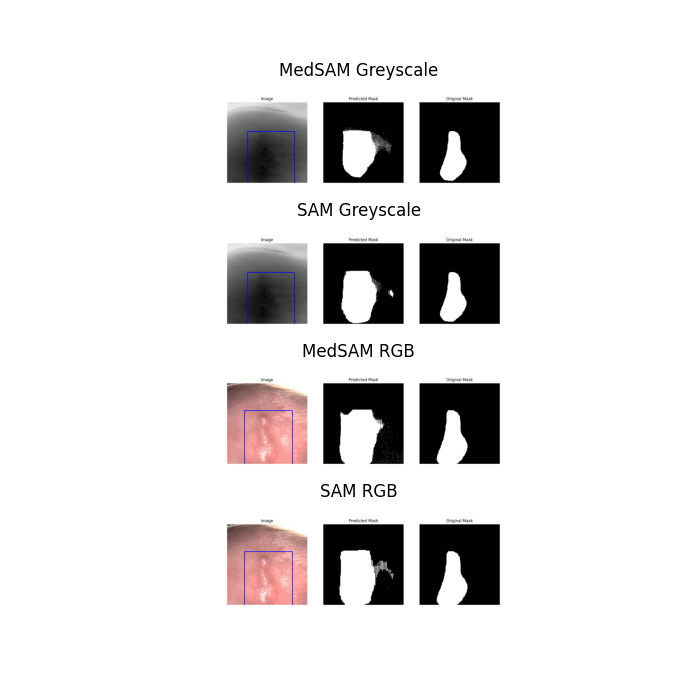
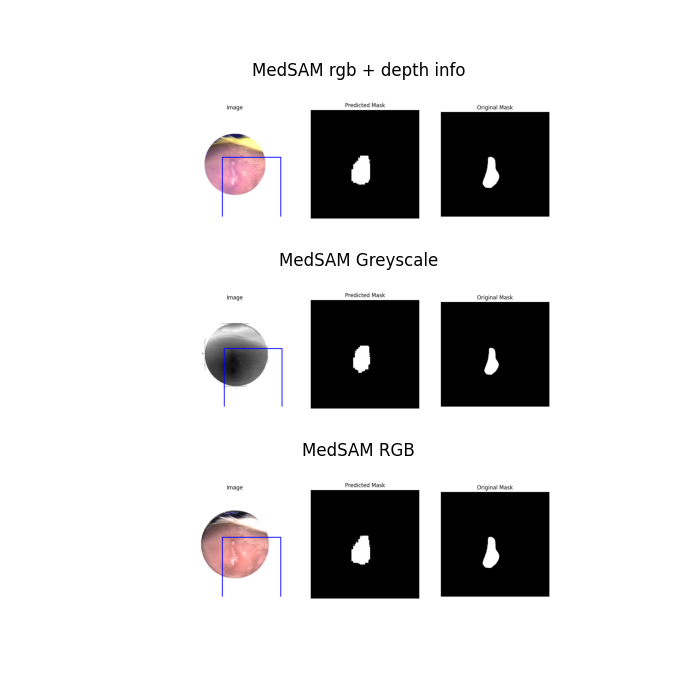
added final images

Changed region(s): [[0.27, 0.09, 0.81, 0.66], [0.27, 0.69, 0.81, 0.87]]

diff --git a/save_images.py b/save_images.py
@@ -1,6 +1,6 @@
 import os, random, cv2
 import matplotlib.pyplot as plt
-import tqdm
+from tqdm import tqdm
 
 def read_images_to_array(folder_path):
 
@@ -17,31 +17,26 @@ def read_images_to_array(folder_path):
 
   return image_array
 
-MedSAM_greyscale = read_images_to_array('./images_MedSAM_greyscale')
-MedSAM_rgb = read_images_to_array('./images_MedSAM_rgb')
-SAM_greyscale = read_images_to_array('./images_SAM_greyscale')
-SAM_rgb = read_images_to_array('./images_SAM_rgb')
+MedSAM_infused = read_images_to_array('./MedSAM_infused')
+MedSAM_rgb = read_images_to_array('./MedSAM_rgb')
+MedSAM_depth = read_images_to_array('./MedSAM_depth')
 
-for i in tqdm(range(len(SAM_rgb))):
+for i in tqdm(range(len(MedSAM_rgb)), desc="Saving Images"):
 
-     M_greyscale = MedSAM_greyscale[i]
+     M_infused = MedSAM_infused[i]
      M_rgb = MedSAM_rgb[i]
-     S_greyscale = SAM_greyscale[i]
-     S_rgb = SAM_rgb[i]
+     M_depth = MedSAM_depth[i]
 
-     fig, ax = plt.subplots(nrows=4, figsize=[7,7])
+     fig, ax = plt.subplots(nrows=3, figsize=[7,7])
 
-     ax[0].imshow(M_greyscale)
-     ax[0].set_title("MedSAM Greyscale")
+     ax[0].imshow(M_infused)
+     ax[0].set_title("MedSAM rgb + depth info")
 
-     ax[1].imshow(S_greyscale)
-     ax[1].set_title("SAM Greyscale")
+     ax[1].imshow(M_depth)
+     ax[1].set_title("MedSAM Greyscale")
 
      ax[2].imshow(M_rgb)
      ax[2].set_title("MedSAM RGB")
-
-     ax[3].imshow(S_rgb)
-     ax[3].set_title("SAM RGB")
 
      for a in ax: 
         a.axis("off")
